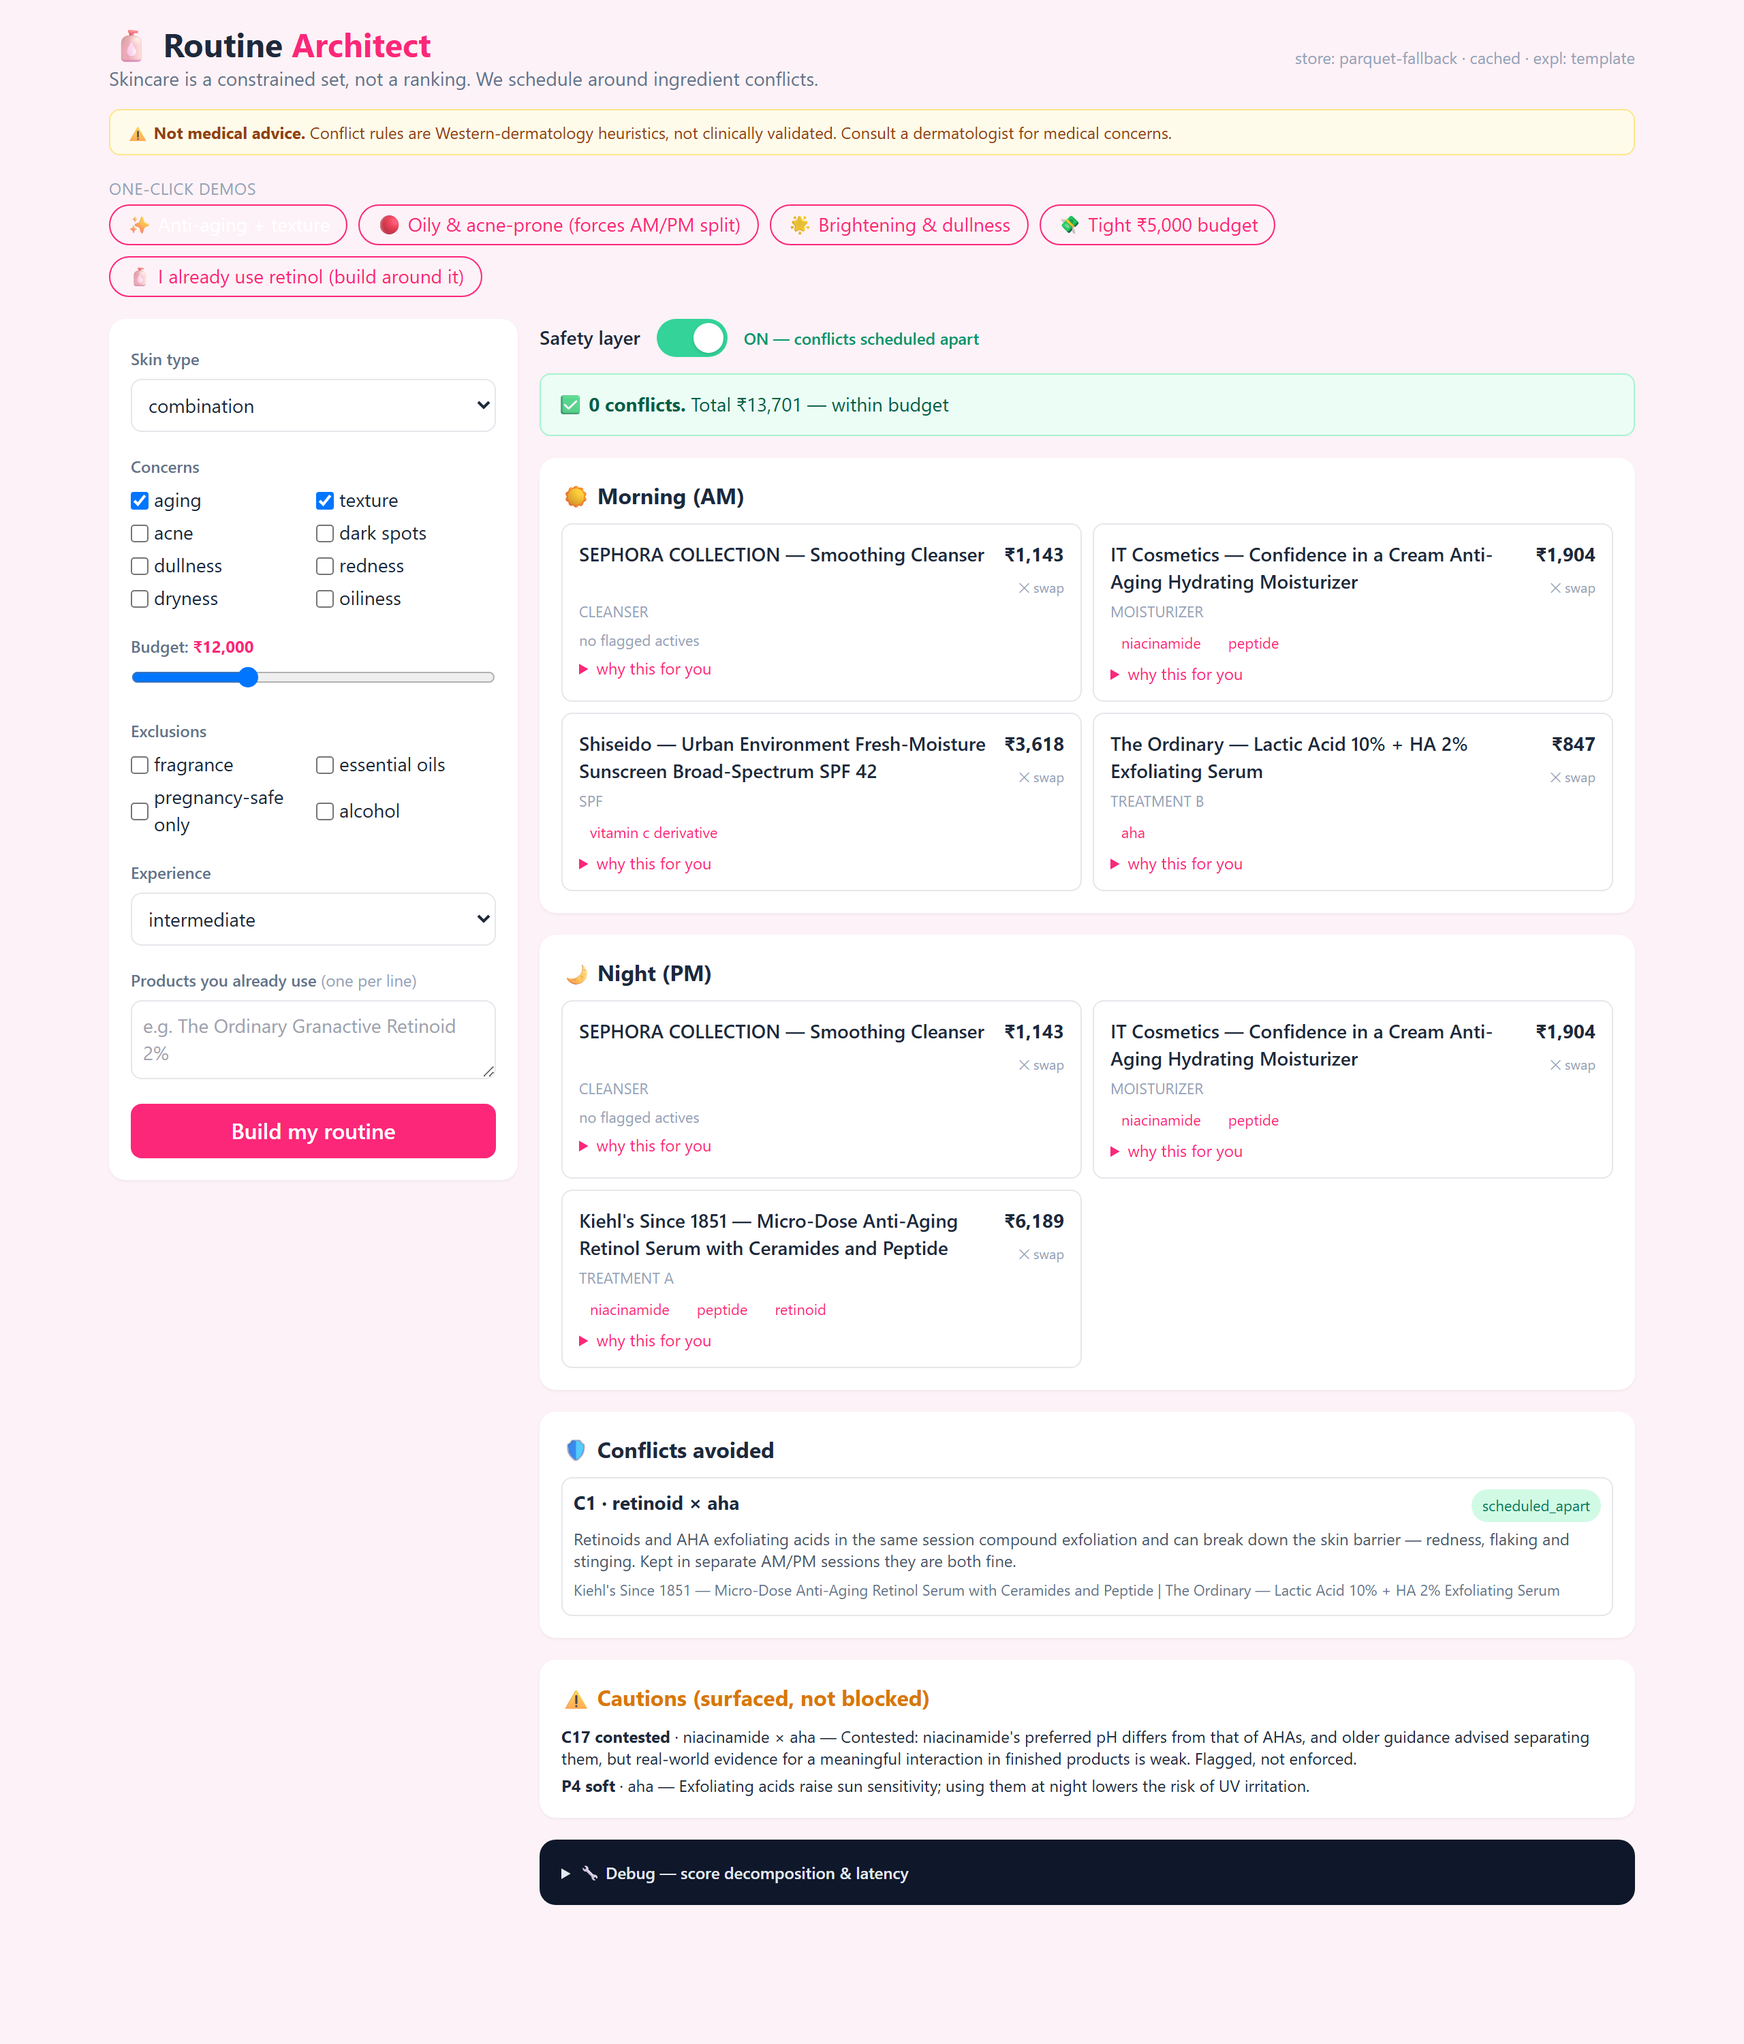
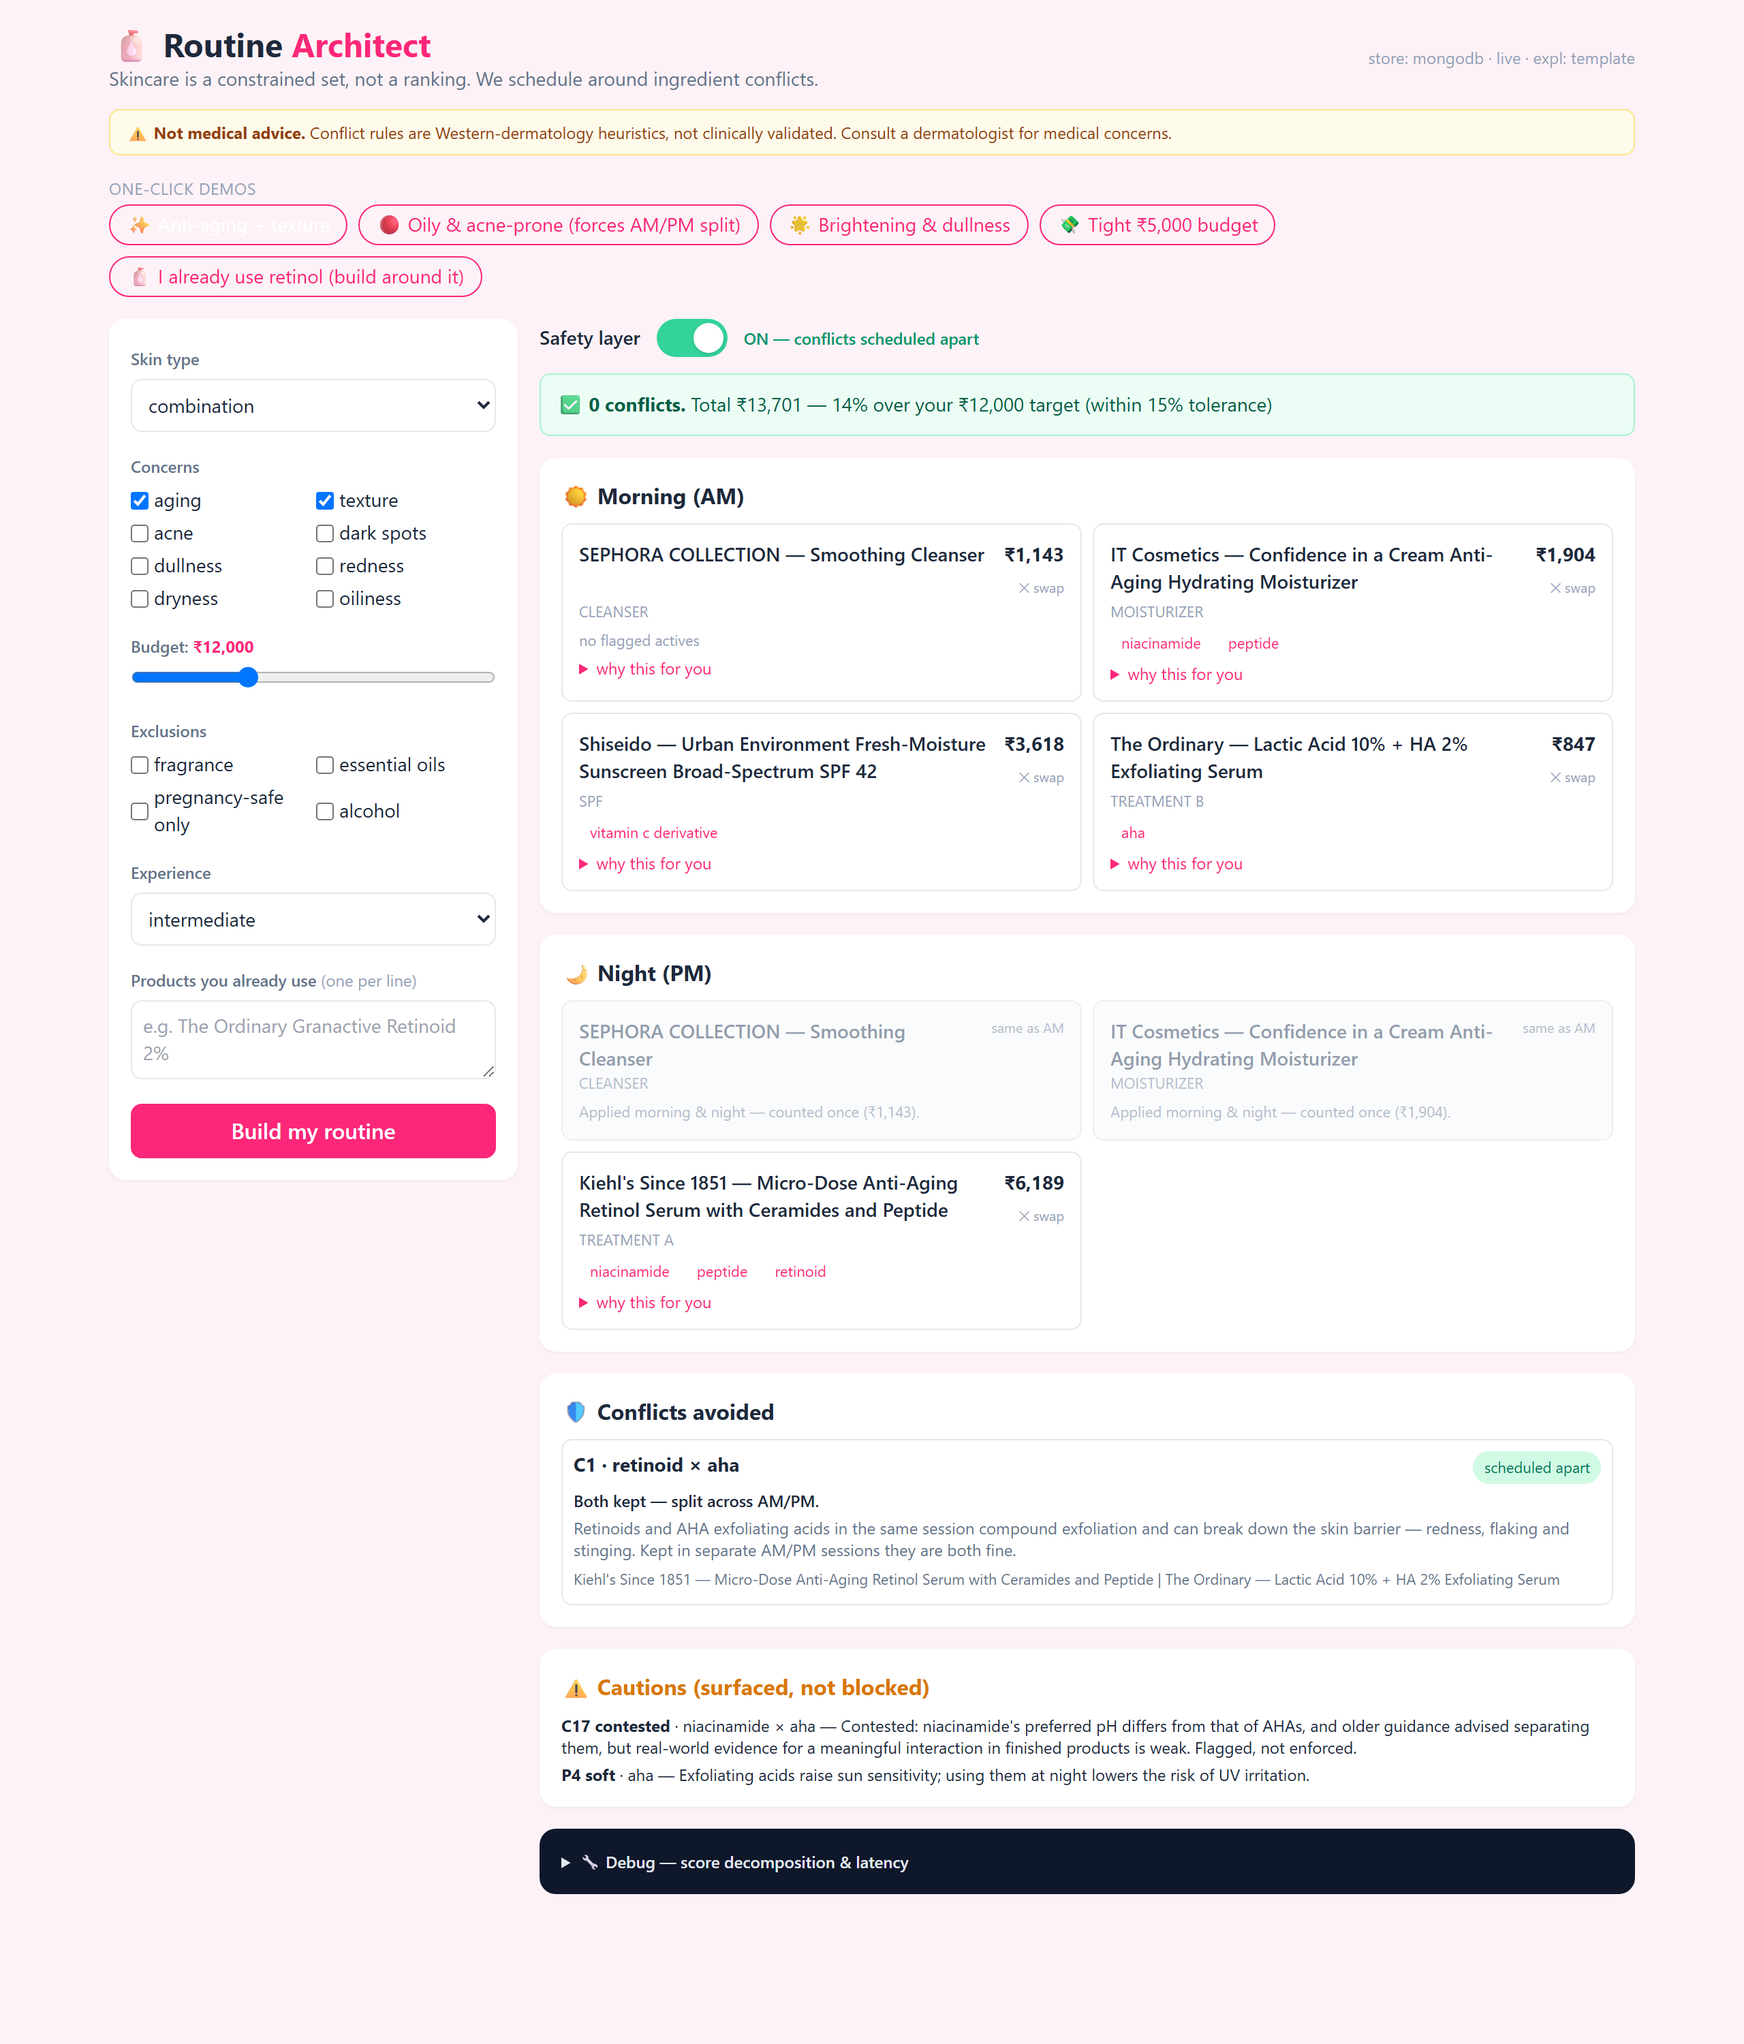
UI honesty pass: budget tolerance, action-typed conflict wording, reused-product greying, full-stack screenshots
- Budget banner: show target/actual/% over + "within 15% tolerance" instead of
  misleading "within budget" (was contradicting the 100%-adherence headline)
- Conflicts-avoided panel: action-typed, truthful wording computed server-side
  (product_swapped no longer implies the avoided product is in the routine)
- Reused cleanser/moisturizer greyed "same as AM · counted once" in PM board
- Preset label whitespace-nowrap (no dot overlap)
- Re-captured all 6 screenshots against mongo+redis (badge: store=mongodb);
  no GEMINI_API_KEY available so expl stays template (graceful-degradation path)

Claude-Session: https://claude.ai/code/session_01XDohTFm89eyMrbc68qcnGF

diff --git a/app/static/index.html b/app/static/index.html
@@ -86,7 +86,7 @@ CONCERNS.forEach(c=>concerns.insertAdjacentHTML("beforeend",
 EXCL.forEach(c=>exclusions.insertAdjacentHTML("beforeend",
   `<label class="flex items-center gap-1"><input type="checkbox" class="excl accent-pink" value="${c}">${c}</label>`));
 PRESETS.forEach((p,i)=>presets.insertAdjacentHTML("beforeend",
-  `<button data-i="${i}" class="preset border border-pink pink text-sm rounded-full px-3 py-1 hover:bg-pink hover:text-white">${p.label}</button>`));
+  `<button data-i="${i}" class="preset border border-pink pink text-sm rounded-full px-3 py-1 whitespace-nowrap hover:bg-pink hover:text-white">${p.label}</button>`));
 budget.oninput=()=>budgetLabel.textContent="₹"+(+budget.value).toLocaleString("en-IN");
 
 document.querySelectorAll(".preset").forEach(b=>b.onclick=()=>{
@@ -131,10 +131,26 @@ async function run(keepProfile){
 }
 
 const money=x=>"₹"+Math.round(x).toLocaleString("en-IN");
+function budgetText(d){
+  const t=d.profile.budget_inr, a=d.total_price_inr;
+  if(a<=t) return `${money(a)} — within your ${money(t)} target`;
+  const pct=Math.round((a/t-1)*100);
+  if(d.within_budget) return `${money(a)} — ${pct}% over your ${money(t)} target (within 15% tolerance)`;
+  return `<span class="text-rose-600">${money(a)} — ${pct}% over your ${money(t)} target (exceeds 15% tolerance)</span>`;
+}
 const chip=(t,cls="bg-pink/10 pink")=>`<span class="text-[11px] px-2 py-[2px] rounded-full ${cls}">${t}</span>`;
 const CONF={verified:"bg-emerald-100 text-emerald-700",user_supplied:"bg-emerald-100 text-emerald-700",
   manual:"bg-amber-100 text-amber-700",inferred:"bg-rose-100 text-rose-700"};
-function card(c){
+function card(c,isPM){
+  // cleanser/moisturizer run AM+PM; show a compact greyed instance at night so the
+  // duplicate doesn't read as double-billing (the total counts it once).
+  if(isPM && !c.owned && (c.sessions||[]).includes("AM")){
+    return `<div class="border rounded-lg p-3 bg-slate-50 opacity-70">
+      <div class="flex justify-between gap-2 items-start"><div class="font-semibold text-sm text-slate-500">${c.name}</div>
+        <span class="text-[10px] text-slate-400 whitespace-nowrap">same as AM</span></div>
+      <div class="text-[11px] text-slate-400 uppercase">${c.slot.replace("_"," ")}</div>
+      <div class="text-[11px] text-slate-400 mt-1">Applied morning &amp; night — counted once (${money(c.price_inr)}).</div></div>`;
+  }
   if(c.owned){
     const badge=`<span class="text-[10px] px-2 py-[2px] rounded-full ${CONF[c.confidence]||'bg-slate-100'}">Tier ${c.tier} · ${c.confidence}</span>`;
     const warn=!c.conflict_checkable
@@ -165,10 +181,10 @@ function card(c){
       ${themes?`<div class="flex flex-wrap gap-1 mt-2">${themes}</div>`:""}
       ${grounding}</details></div>`;
 }
-function board(title,items,tint){
+function board(title,items,isPM){
   return `<div class="bg-white rounded-xl shadow-sm p-4">
     <h3 class="font-bold mb-2">${title}</h3>
-    <div class="grid sm:grid-cols-2 gap-2">${items.map(card).join("")}</div></div>`;
+    <div class="grid sm:grid-cols-2 gap-2">${items.map(c=>card(c,isPM)).join("")}</div></div>`;
 }
 function render(d){
   statusMsg.classList.add("hidden");results.classList.remove("hidden");
@@ -190,7 +206,7 @@ function render(d){
   prevSlots=newSlots; pendingSwap=null;
   const safe=d.hard_violations.length===0;
   const banner=safe
-    ? `<div class="bg-emerald-50 border border-emerald-200 text-emerald-800 rounded-lg p-3 text-sm">✅ <b>0 conflicts.</b> Total ${money(d.total_price_inr)} ${d.within_budget?"— within budget":'<span class="text-rose-600">— over budget</span>'}</div>`
+    ? `<div class="bg-emerald-50 border border-emerald-200 text-emerald-800 rounded-lg p-3 text-sm">✅ <b>0 conflicts.</b> Total ${budgetText(d)}</div>`
     : `<div class="bg-rose-50 border border-rose-300 text-rose-800 rounded-lg p-3 text-sm">⛔ <b>${d.hard_violations.length} hard conflict(s) shipped</b> (safety layer OFF): ${d.hard_violations.map(v=>v.rule_id).join(", ")}</div>`;
 
   // avoided or violations panel
@@ -199,10 +215,12 @@ function render(d){
   if(list.length){
     panel=`<div class="bg-white rounded-xl shadow-sm p-4"><h3 class="font-bold mb-2">${safe?"🛡 Conflicts avoided":"⛔ Conflicts (unresolved)"}</h3>
       <div class="space-y-2">`+list.map(v=>{
-        const tag = safe?`<span class="text-[11px] px-2 py-[2px] rounded-full bg-emerald-100 text-emerald-700">${v.action}</span>`:chip("HARD","bg-rose-100 text-rose-700");
+        const ACT={scheduled_apart:"scheduled apart",product_swapped:"product swapped",excluded_no_alternative:"no alternative"};
+        const tag = safe?`<span class="text-[11px] px-2 py-[2px] rounded-full bg-emerald-100 text-emerald-700">${ACT[v.action]||v.action}</span>`:chip("HARD","bg-rose-100 text-rose-700");
         return `<div class="border rounded-lg p-2 text-sm ${safe?"":"border-rose-300"}">
           <div class="flex justify-between"><b>${v.rule_id} · ${v.classes||v.class_a}</b>${tag}</div>
-          <div class="text-slate-600 text-xs mt-1">${v.mechanism}</div>
+          ${v.detail?`<div class="text-slate-800 text-xs mt-1 font-medium">${v.detail}</div>`:""}
+          <div class="text-slate-500 text-xs mt-1">${v.mechanism}</div>
           ${v.citation?`<div class="text-[11px] text-slate-400 mt-1">📖 ${v.citation}</div>`:""}
           ${v.products?`<div class="text-[11px] text-slate-500 mt-1">${v.products.join("  |  ")}</div>`:""}</div>`;
       }).join("")+`</div></div>`;
@@ -235,7 +253,7 @@ function render(d){
           <div class="text-[11px] mt-1 ${ok?"text-emerald-600":"text-rose-600 font-semibold"}">${ok?"✓ full conflict checking":"✗ conflict checking disabled — "+r.note}</div></div>`;
       }).join("")+`</div></div>`;
   }
-  results.innerHTML = banner + swapBanner + ladder + board("☀ Morning (AM)",d.am) + board("🌙 Night (PM)",d.pm) + panel + cautions + dbg;
+  results.innerHTML = banner + swapBanner + ladder + board("☀ Morning (AM)",d.am) + board("🌙 Night (PM)",d.pm,true) + panel + cautions + dbg;
 }
 paintToggle();
 </script>

diff --git a/app/core/pipeline.py b/app/core/pipeline.py
@@ -281,9 +281,7 @@ async def recommend(profile: sv.Profile, enforce_conflicts: bool = True, owned: 
         "pm": [_card(p, whys[p.cand.id], ground[p.cand.id], owned_meta) for p in sorted(routine.session("PM"), key=lambda x: sv.SLOT_ORDER.index(x.slot))],
         "total_price_inr": routine.total_price, "within_budget": routine.total_price <= profile.budget * 1.15,
         "hard_violations": [_viol(v) for v in routine.hard_violations],
-        "avoided": [{"action": a.action, "rule_id": a.rule_id, "severity": a.severity, "mechanism": a.mechanism,
-                     "classes": f"{a.class_a} × {a.class_b}",
-                     "products": [a.product_a.split("::")[-1], a.product_b.split("::")[-1]]} for a in routine.avoided],
+        "avoided": [_avoided(a, {pl.cand.id for pl in routine.placements}) for a in routine.avoided],
         "cautions": [_viol(v) for v in routine.cautions],
         "score_decomposition": decomp, "explanation_source": src, "latency_ms": {k: round(v, 1) for k, v in t.items()},
         "backend": store.backend,
@@ -291,6 +289,31 @@ async def recommend(profile: sv.Profile, enforce_conflicts: bool = True, owned: 
                          "confidence": r.confidence, "conflict_checkable": r.conflict_checkable,
                          "classes": sorted(r.classes), "note": r.note} for r in resolutions],
     }
+
+
+def _avoided(a, routine_ids: set) -> dict:
+    """Action-typed, truthful wording for the 'conflicts avoided' panel. product_swapped
+    products are NOT in the routine (that's the point of the swap), so name the avoided
+    product and, when one of the pair survived in the routine, the surviving 'your' one."""
+    pa_id, pa_name = a.product_a.split("::", 1)[0], a.product_a.split("::")[-1]
+    pb_id, pb_name = a.product_b.split("::", 1)[0], a.product_b.split("::")[-1]
+    d = {"action": a.action, "rule_id": a.rule_id, "severity": a.severity,
+         "mechanism": a.mechanism, "classes": f"{a.class_a} × {a.class_b}"}
+    if a.action == "scheduled_apart":
+        d["detail"] = "Both kept — split across AM/PM."
+        d["products"] = [pa_name, pb_name]
+    elif a.action == "product_swapped":
+        if pb_id in routine_ids:      # the surviving product is 'yours'; the other was avoided
+            x, y = pa_name, pb_name
+        elif pa_id in routine_ids:
+            x, y = pb_name, pa_name
+        else:
+            x, y = pa_name, None
+        d["detail"] = (f"We avoided {x} because it conflicts with your {y}." if y
+                       else f"We avoided {x} — it conflicts with the top pick for another concern.")
+    else:  # excluded_no_alternative
+        d["detail"] = "No safe alternative found for this slot."
+    return d
 
 
 def _viol(v):

diff --git a/DECISIONS.md b/DECISIONS.md
@@ -311,3 +311,16 @@ So **fresh CF is the single strongest signal**; semantic is the robust floor tha
 **4. Deployed weights (engineering call) = [semantic 0.3, cf 0.5, rating 0.1, skin 0.1]** → refreshed test NDCG@10 **0.106** (statistically tied with the pure val-tuned 0.107). Rationale: CF-dominant because fresh CF wins; keep semantic 0.3 as the **staleness/robustness floor**; keep rating+skin at 0.1 each as the **cold-start lifeline** — the grid zeroed them only because the eval cohort is warm (≥5 reviews, mean 6.8→12.9 liked), but for cold users cf & semantic are both 0 and rating/skin are the only signals. The user's rule ("deployed = semantic-dominant *unless the refit changes the picture*") fired: **the refit changed the picture**, so deployed is CF-dominant, not semantic-dominant.
 **Divergence documented:** protocol/val-tuned = [0.3, 0.7, 0, 0] (report); deployed = [0.3, 0.5, 0.1, 0.1] (serve). They differ only by moving 0.2 of weight from CF into rating+skin for cold-start safety — a small, deliberate divergence, not a contradiction. `eval/rank_results.json` holds both.
 **Doc §:** 4, 7 (results + staleness delta), 9 (CF sparsity), 12 (roadmap — CF refresh cadence)
+
+---
+
+## [H+16] UI honesty pass before the document (5 fixes) + full-stack screenshot re-capture
+
+**Why now:** every screenshot goes in the document; several UI strings either contradicted a headline result or implied capabilities we don't run. Fixed the strings, not the results.
+**1. Budget banner contradicted the headline.** It read "within budget" for a routine 12% over target (the 15% solver tolerance was real but invisible), which reads as the solver ignoring budget — undercutting the strongest finding (naive 2.36× over → solver 100% adherence). Now shows target, actual, and % over with "(within 15% tolerance)". Truthful *and* it advertises the tolerance mechanism.
+**2. "Conflicts avoided" cited products not in the routine.** The `product_swapped` case named the naive pick a reader assumed was theirs. Reworded server-side by action type (detail computed in `pipeline._avoided` where routine ids are known): scheduled_apart → "Both kept — split across AM/PM"; product_swapped → "We avoided X because it conflicts with your Y" (Y = the pair member that actually survived in the routine; falls back to a no-"your" phrasing when neither did); excluded_no_alternative → "No safe alternative found for this slot."
+**3. Reused base products looked double-billed.** Cleanser/moisturizer render in both AM and PM at full price (total counts once). PM instance now greyed + "same as AM · counted once (₹…)".
+**4. Preset label wrapped over its 🔴 dot** — `whitespace-nowrap`.
+**5. Screenshots advertised store=parquet-fallback / expl=template.** Re-shot all 6 against a real stack: `docker compose up mongo redis`, loaded 8,494 products / 59,572 reviews, ran the API with MONGO_URL+REDIS_URL. `/health` = `{store:mongodb, cache:redis}` — badge now reads "store: mongodb". **Deviation:** no `expl: llm` capture — no GEMINI_API_KEY in this environment; both shots honestly show `expl: template` (the documented graceful-degradation path). One LLM capture still needs a real key.
+**Verification:** 13/13 tests green; budget probe = ₹10,091 on ₹9,000 target → "12% over (within tolerance)"; swap probe re-binds SPF + treatment_B and both render with CHANGED badges.
+**Doc §:** 8 (test cases / screenshots), 4 (architecture — badge proves Mongo+Redis path), 9 (limitations — LLM key/quota degradation)
